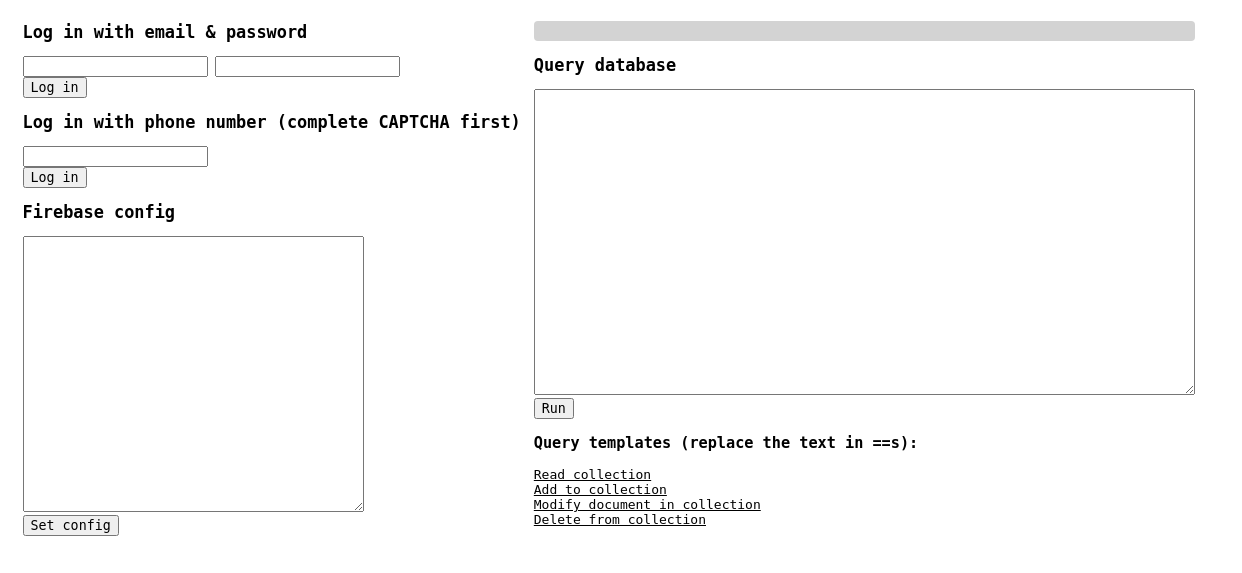
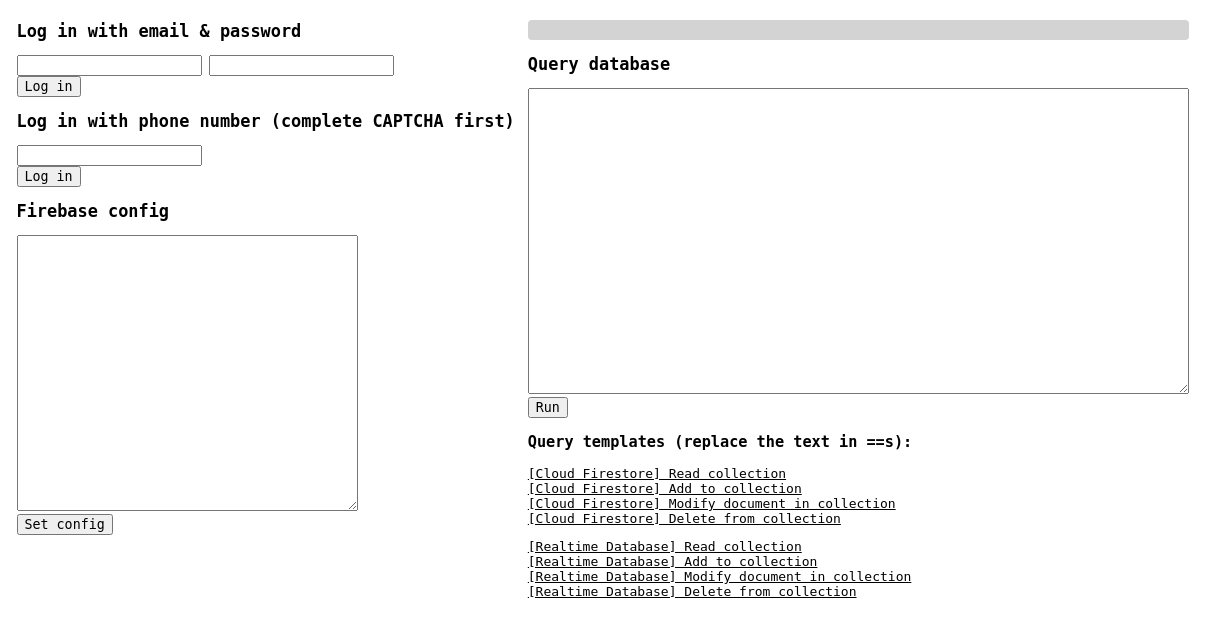
Improve Realtime Database support & add a FAQ section to README

diff --git a/src/controllers/query_controller.js b/src/controllers/query_controller.js
@@ -52,6 +52,10 @@ export default class extends Controller {
     }
 
     read_rtd() {
+      if (!("databaseURL" in window.firebaseConfig)) {
+          alert("Database not defined in Firebase config!");
+          return;
+      }
       this.queryTarget.value = `window.db.ref("==COLLECTION==").get().then(function(snapshot) {
   if (snapshot.exists()) {
     window.displayObject(snapshot);
@@ -65,8 +69,30 @@ export default class extends Controller {
 `
     }
 
+    readall_rtd() {
+      if (!("databaseURL" in window.firebaseConfig)) {
+          alert("Database not defined in Firebase config!");
+          return;
+      }
+      this.queryTarget.value = `window.db.ref("/").get().then(function(snapshot) {
+  if (snapshot.exists()) {
+    window.displayObject(snapshot);
+  }
+  else {
+    window.displayMessage("No data available");
+  }
+}).catch(function(error) {
+  window.displayError(error);
+});
+`
+    }
+
     add_rtd() {
-      this.queryTarget.value = `window.db.ref('==COLLECTION==/' + ==ID==).set({
+      if (!("databaseURL" in window.firebaseConfig)) {
+          alert("Database not defined in Firebase config!");
+          return;
+      }
+      this.queryTarget.value = `window.db.ref('==COLLECTION==/' + "==ID==").set({
   "==KEY==": "==VALUE==",
   "==KEY==": "==VALUE==",
 }, (error) => {
@@ -80,8 +106,12 @@ export default class extends Controller {
     }
 
     modify_rtd() {
+      if (!("databaseURL" in window.firebaseConfig)) {
+          alert("Database not defined in Firebase config!");
+          return;
+      }
       this.queryTarget.value = `window.db.ref().update({
-  "==COLLECTION==" : {
+  "==COLLECTION==/==ID==" : {
     "==KEY==": "==VALUE==",
     "==KEY==": "==VALUE==",
   }
@@ -96,7 +126,11 @@ export default class extends Controller {
     }
 
     delete_rtd() {
-      this.queryTarget.value = `window.db.ref("==REF==").remove((error) => {
+      if (!("databaseURL" in window.firebaseConfig)) {
+          alert("Database not defined in Firebase config!");
+          return;
+      }
+      this.queryTarget.value = `window.db.ref("==COLLECTION==/==ID==").remove((error) => {
   if (error) {
     window.displayError(error)
   } else {

diff --git a/src/controllers/config_controller.js b/src/controllers/config_controller.js
@@ -23,6 +23,7 @@ export default class extends Controller {
           return;
         }
         window.firebaseConfig = null;
+        firebase.apps[0].delete();
         this.configTarget.hidden = false;
         this.displayTarget.hidden = true;
         this.displayTarget.innerHTML = "";
@@ -31,8 +32,10 @@ export default class extends Controller {
       else {
         window.firebaseConfig = JSON5.parse(this.configTarget.value);
         firebase.initializeApp(window.firebaseConfig);
-        window.cfs = firebase.firestore()
-        window.db = firebase.database()
+        window.cfs = firebase.firestore();
+        if ("databaseURL" in window.firebaseConfig) {
+          window.db = firebase.database();
+        }
 
         this.configTarget.hidden = true;
         this.displayTarget.hidden = false;

diff --git a/dist/index.html b/dist/index.html
@@ -54,6 +54,7 @@
             <li><a href='#' data-action="click->query#delete">[Cloud Firestore] Delete from collection</a></li>
           </ul>
           <ul>
+            <li><a href='#' data-action="click->query#readall_rtd">[Realtime Database] Read datastore</a></li>
             <li><a href='#' data-action="click->query#read_rtd">[Realtime Database] Read collection</a></li>
             <li><a href='#' data-action="click->query#add_rtd">[Realtime Database] Add to collection</a></li>
             <li><a href='#' data-action="click->query#modify_rtd">[Realtime Database] Modify document in collection</a></li>

diff --git a/README.md b/README.md
@@ -1,6 +1,6 @@
-# Baserunner
+# 🧢 Baserunner
 
-A tool for exploring Firebase datastores.
+A tool for exploring and exploiting Firebase datastores.
 
 ## Set up
 
@@ -29,7 +29,8 @@ First, use the configuration textbox to load a Firebase configuration JSON struc
   "messagingSenderId": "SENDER_ID",
   "appId": "APP_ID",
   "measurementId": "G-MEASUREMENT_ID",
-};
+  "databaseURL": "https://PROJECT_ID.firebasedatabase.app/"
+}
 ```
 
 Then log in as a regular user, either with email and password or with a mobile phone number. When logging in with a mobile phone number, complete the CAPTCHA before submitting your number. You then be prompted for an OTP from your SMS. Enter this without completing the CAPTCHA to finish logging in. Note that you can skip this step to test queries without authentication.
@@ -37,4 +38,30 @@ Then log in as a regular user, either with email and password or with a mobile p
 Finally, you can use the query interface to submit queries to the application's Cloud Firestore. Baserunner provides a number of template queries for common actions. Click on one of them to load it in the textbox, and replace the values that look `==LIKE THIS==` with valid names of collections, IDs, fields, etc.
 
 As there is no way of getting a list of available collection using the Firebase JavaScript SDK, you will need to guess these, or source their names from the application's front-end JavaScript.
+
+## FAQ
+
+**How do I tell if an app is using Cloud Firestore or Realtime Database?**
+
+Applications using Realtime Database will have a `database` key in their configuration objects. Applications without this key can be assumed to use Cloud Firestore. Note that it is possible for Firebase applications to use both datastores, so when in doubt, run both types of queries.
+
+**I'm getting blocked by CORS!**
+
+To function as intended, Baserunner expects applications to accept requests from localhost, which is enabled default. Therefore, Baserunner cannot be used as a hosted application.
+
+Should requests from localhost be disallowed by the application you're testing, a version of Baserunner with a reduced featureset can still be run by opening `dist/index.html` in your browser. Note that this way of running Baserunner only supports email + password login and not phone login.
+
+**How do I know what collections to query for?**
+
+Cloud Firestore: For security reasons, Firebase's client-side JavaScript API does not provide a mechanism for listing collections. You will need to deduce these from looking at the target application's JavaScript code and making educated guesses.
+
+Realtime Database: As this datastore is represented as a JSON object, you can use the provided "[Realtime Database] Read datastore" query to attempt to view the entire thing. Note that this may fail depending on the rules configured.
+
+**Can I see the results of previous queries?**
+
+While only the latest query result is displayed on the Baserunner page, all results are logged to the browser console.
+
+**When running realtime datbase queries, I get an error that says the client is offline.**
+
+Try rerunning the query.
 
